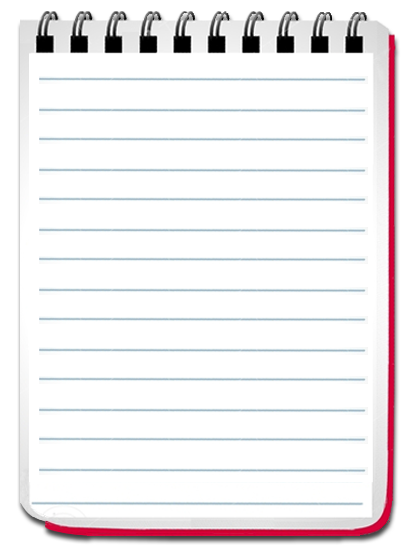
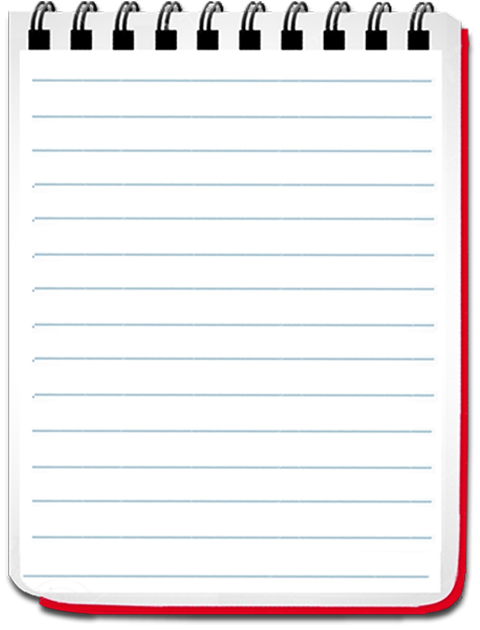
Se agrega analytics

diff --git a/css/styles.css b/css/styles.css
@@ -164,8 +164,8 @@ div.mainBody div.lapiz_container {
 }
 
 div.mainBody div.form_container div.form_questions_container form.real_form{
-    width: 408px !important;
-    height: 553px !important;
+    width: 480px !important;
+    height: 630px !important;
     background-image:url('../images/bloc.png');
     background-repeat:no-repeat;
     margin-left: 40px;
@@ -185,7 +185,7 @@ div.mainBody div.form_container div.form_questions_container  label{
 
 
 div.mainBody div.form_container div.form_questions_container form.real_form div.form_space_div{
-    height: 83px;
+    height: 88px;
 }
 
 div.mainBody div.form_container div.form_questions_container form.real_form div.input_label{
@@ -193,11 +193,11 @@ div.mainBody div.form_container div.form_questions_container form.real_form div.
     margin-left: 40px;
     width: 82%;
     height: 30px;
-    margin-bottom: 5px;
+    margin-bottom: 4px;
 }
 
 div.mainBody div.form_container div.form_questions_container form.real_form div.input_label input{
-    width: 140px !important;
+    width: 170px !important;
     height: 20px !important;
 }
 
@@ -212,7 +212,7 @@ div.mainBody div.form_container div.form_questions_container form.real_form div.
 
 div.mainBody div.form_container div.form_questions_container form.real_form div.input_transportation input{
     position: relative;
-    top: 10px;
+    top: 22px;
 }
 
 div.mainBody div.form_container div.form_questions_container form.real_form a.link_enviar{
@@ -225,7 +225,7 @@ div.mainBody div.form_container div.form_questions_container form.real_form labe
     font-size: 14px;
     position: relative;
     margin-left: 40px;
-    top: 10px;
+    top: 5px;
 }
 
 /**

diff --git a/index.html b/index.html
@@ -38,11 +38,23 @@
 		<img src="images/logos_pie_home.png" alt="Surco Seguros" />
 	    </div>
 	    <div class="homeTextFooter">
-		Actividad dirigida exclusivamente a escolares de todo el pa&iacute;. Desarrollada con el objetivo de sensibilizar, informar
-		y generar cultura de prevenc&iacute;on en materia de seguridad vial. Organizada por SURCO Seguros y con el respaldo de UNASEV
-		en el marco de la SNSV. Aplicac&iacute;n operativa desde el 3&deg; al 31 de octubre 2013.
+		Actividad dirigida exclusivamente a escolares de todo el pa&iacute;s. Desarrollada con el objetivo de sensibilizar, informar
+		y generar cultura de prevenci&oacute;n en materia de seguridad vial. Organizada por SURCO Seguros y con el respaldo de UNASEV
+		en el marco de la SNSV. Aplicaci&oacute;n operativa desde el 3&deg; al 31 de octubre 2013.
 	    </div>
         </div>
+<script type="text/javascript">
 
+  var _gaq = _gaq || [];
+  _gaq.push(['_setAccount', 'UA-44792852-1']);
+  _gaq.push(['_trackPageview']);
+
+  (function() {
+    var ga = document.createElement('script'); ga.type = 'text/javascript'; ga.async = true;
+    ga.src = ('https:' == document.location.protocol ? 'https://ssl' : 'http://www') + '.google-analytics.com/ga.js';
+    var s = document.getElementsByTagName('script')[0]; s.parentNode.insertBefore(ga, s);
+  })();
+
+</script>
     </body>
 </html>

diff --git a/premios.html b/premios.html
@@ -69,6 +69,18 @@
 			    Todas las fotograf&iacute;as son meramente ilustrativas, y podr&iacute;an no coicidir ex&aacute;ctamente con los premios.
 			</div>
         </div>
+<script type="text/javascript">
 
+  var _gaq = _gaq || [];
+  _gaq.push(['_setAccount', 'UA-44792852-1']);
+  _gaq.push(['_trackPageview']);
+
+  (function() {
+    var ga = document.createElement('script'); ga.type = 'text/javascript'; ga.async = true;
+    ga.src = ('https:' == document.location.protocol ? 'https://ssl' : 'http://www') + '.google-analytics.com/ga.js';
+    var s = document.getElementsByTagName('script')[0]; s.parentNode.insertBefore(ga, s);
+  })();
+
+</script>
     </body>
 </html>

diff --git a/pregunta.php b/pregunta.php
@@ -190,5 +190,18 @@ header('Content-type: text/html; charset=UTF-8') ;
 	    showQuestion(questionNumber);
 	    //console.info(questionList);
 	</script>
+	<script type="text/javascript">
+
+  var _gaq = _gaq || [];
+  _gaq.push(['_setAccount', 'UA-44792852-1']);
+  _gaq.push(['_trackPageview']);
+
+  (function() {
+    var ga = document.createElement('script'); ga.type = 'text/javascript'; ga.async = true;
+    ga.src = ('https:' == document.location.protocol ? 'https://ssl' : 'http://www') + '.google-analytics.com/ga.js';
+    var s = document.getElementsByTagName('script')[0]; s.parentNode.insertBefore(ga, s);
+  })();
+
+</script>
     </body>
 </html>

diff --git a/formulario.php b/formulario.php
@@ -218,5 +218,18 @@ if(((!isset($_SESSION['lastQuestionNumber']) && !isset($_SESSION['lastQuestionAn
 	}
 	
     </script>
+    <script type="text/javascript">
+
+  var _gaq = _gaq || [];
+  _gaq.push(['_setAccount', 'UA-44792852-1']);
+  _gaq.push(['_trackPageview']);
+
+  (function() {
+    var ga = document.createElement('script'); ga.type = 'text/javascript'; ga.async = true;
+    ga.src = ('https:' == document.location.protocol ? 'https://ssl' : 'http://www') + '.google-analytics.com/ga.js';
+    var s = document.getElementsByTagName('script')[0]; s.parentNode.insertBefore(ga, s);
+  })();
+
+</script>
     </body>
 </html>
